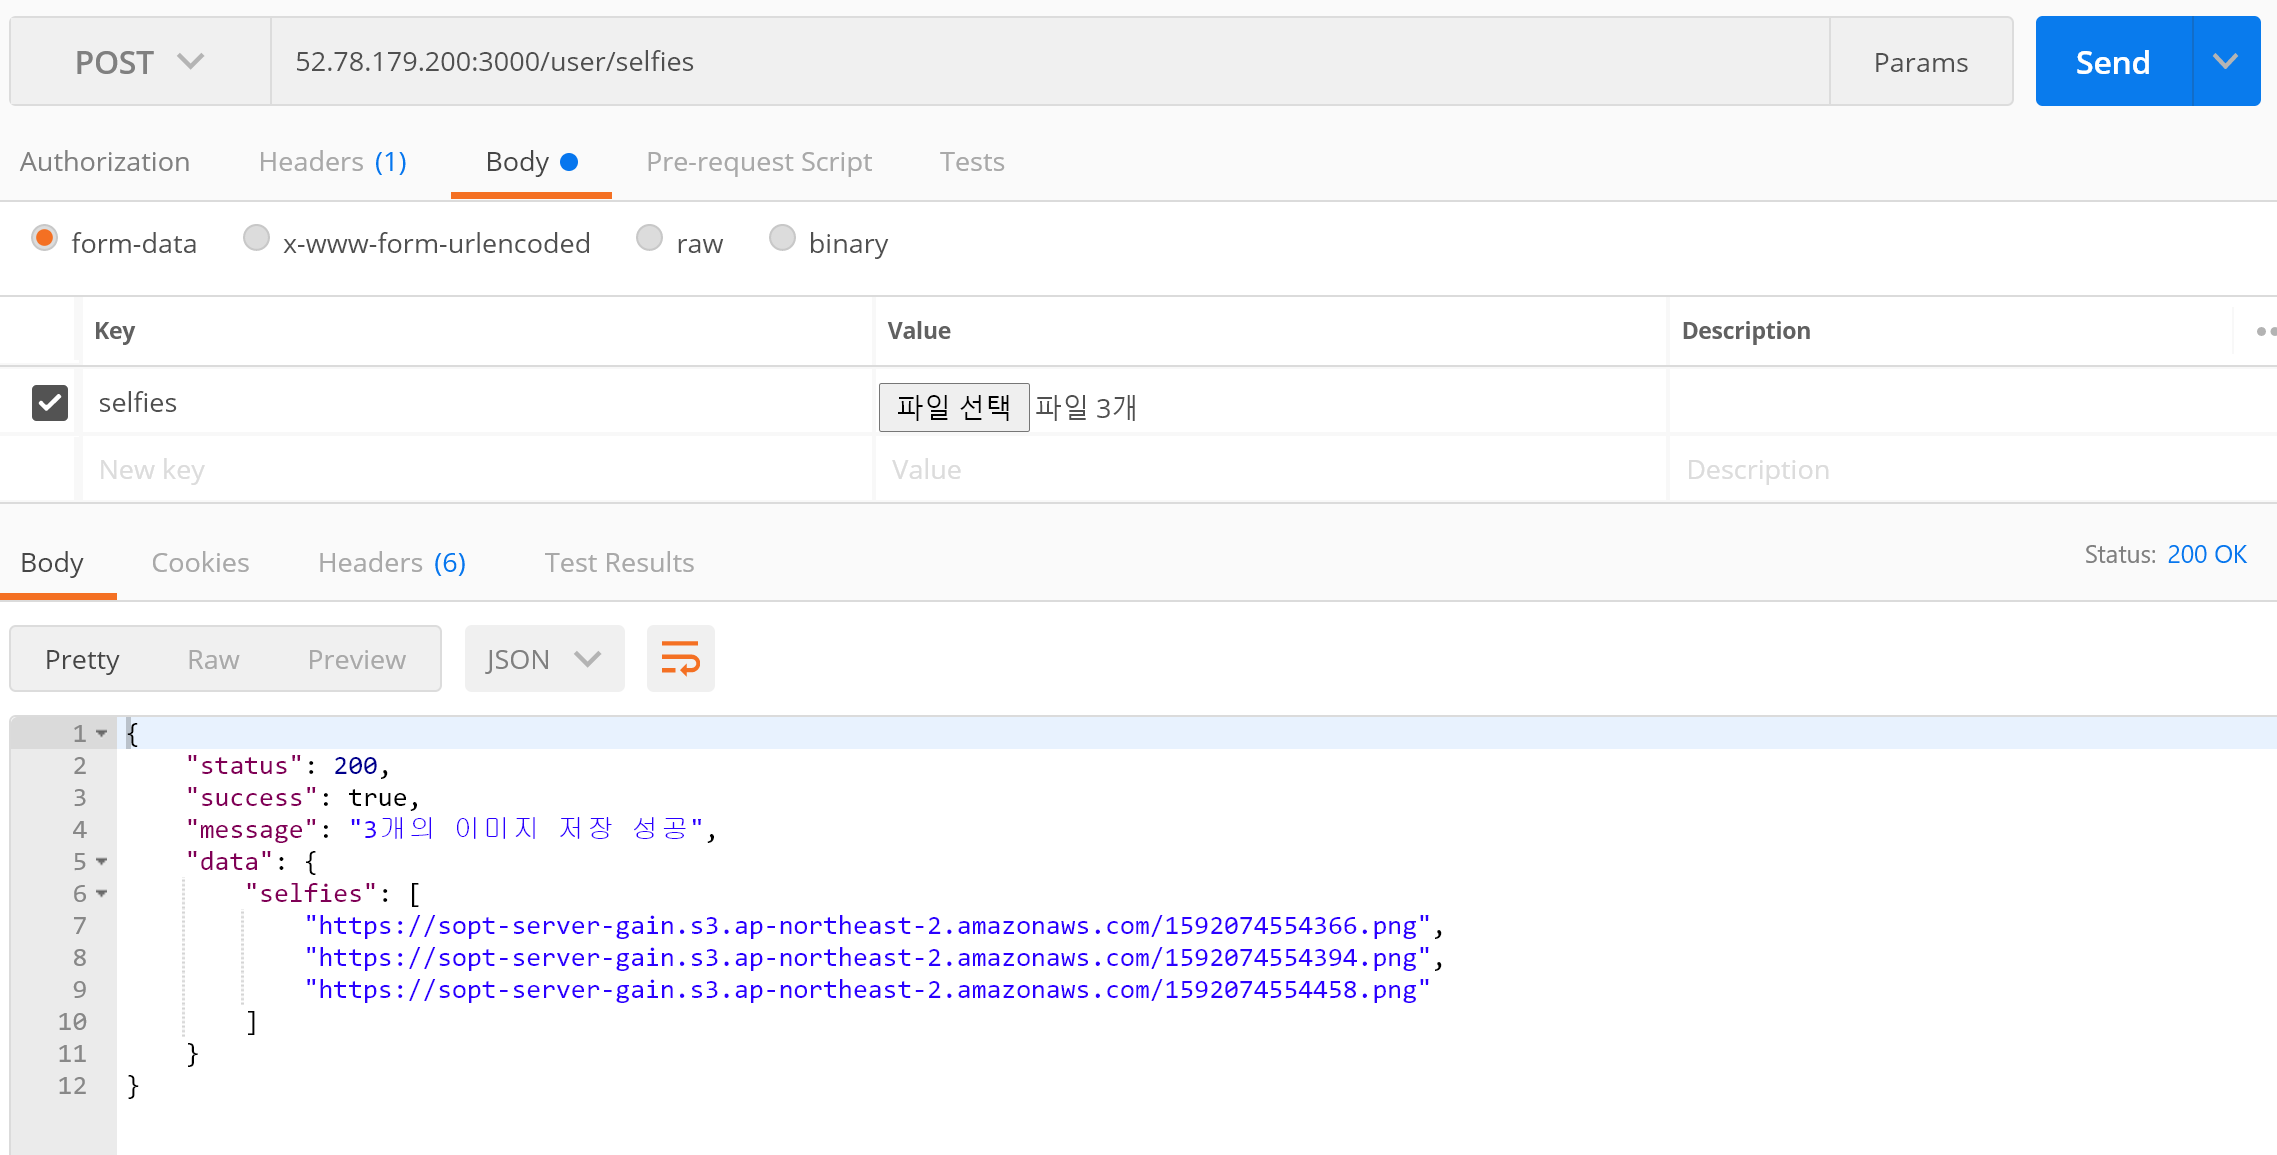
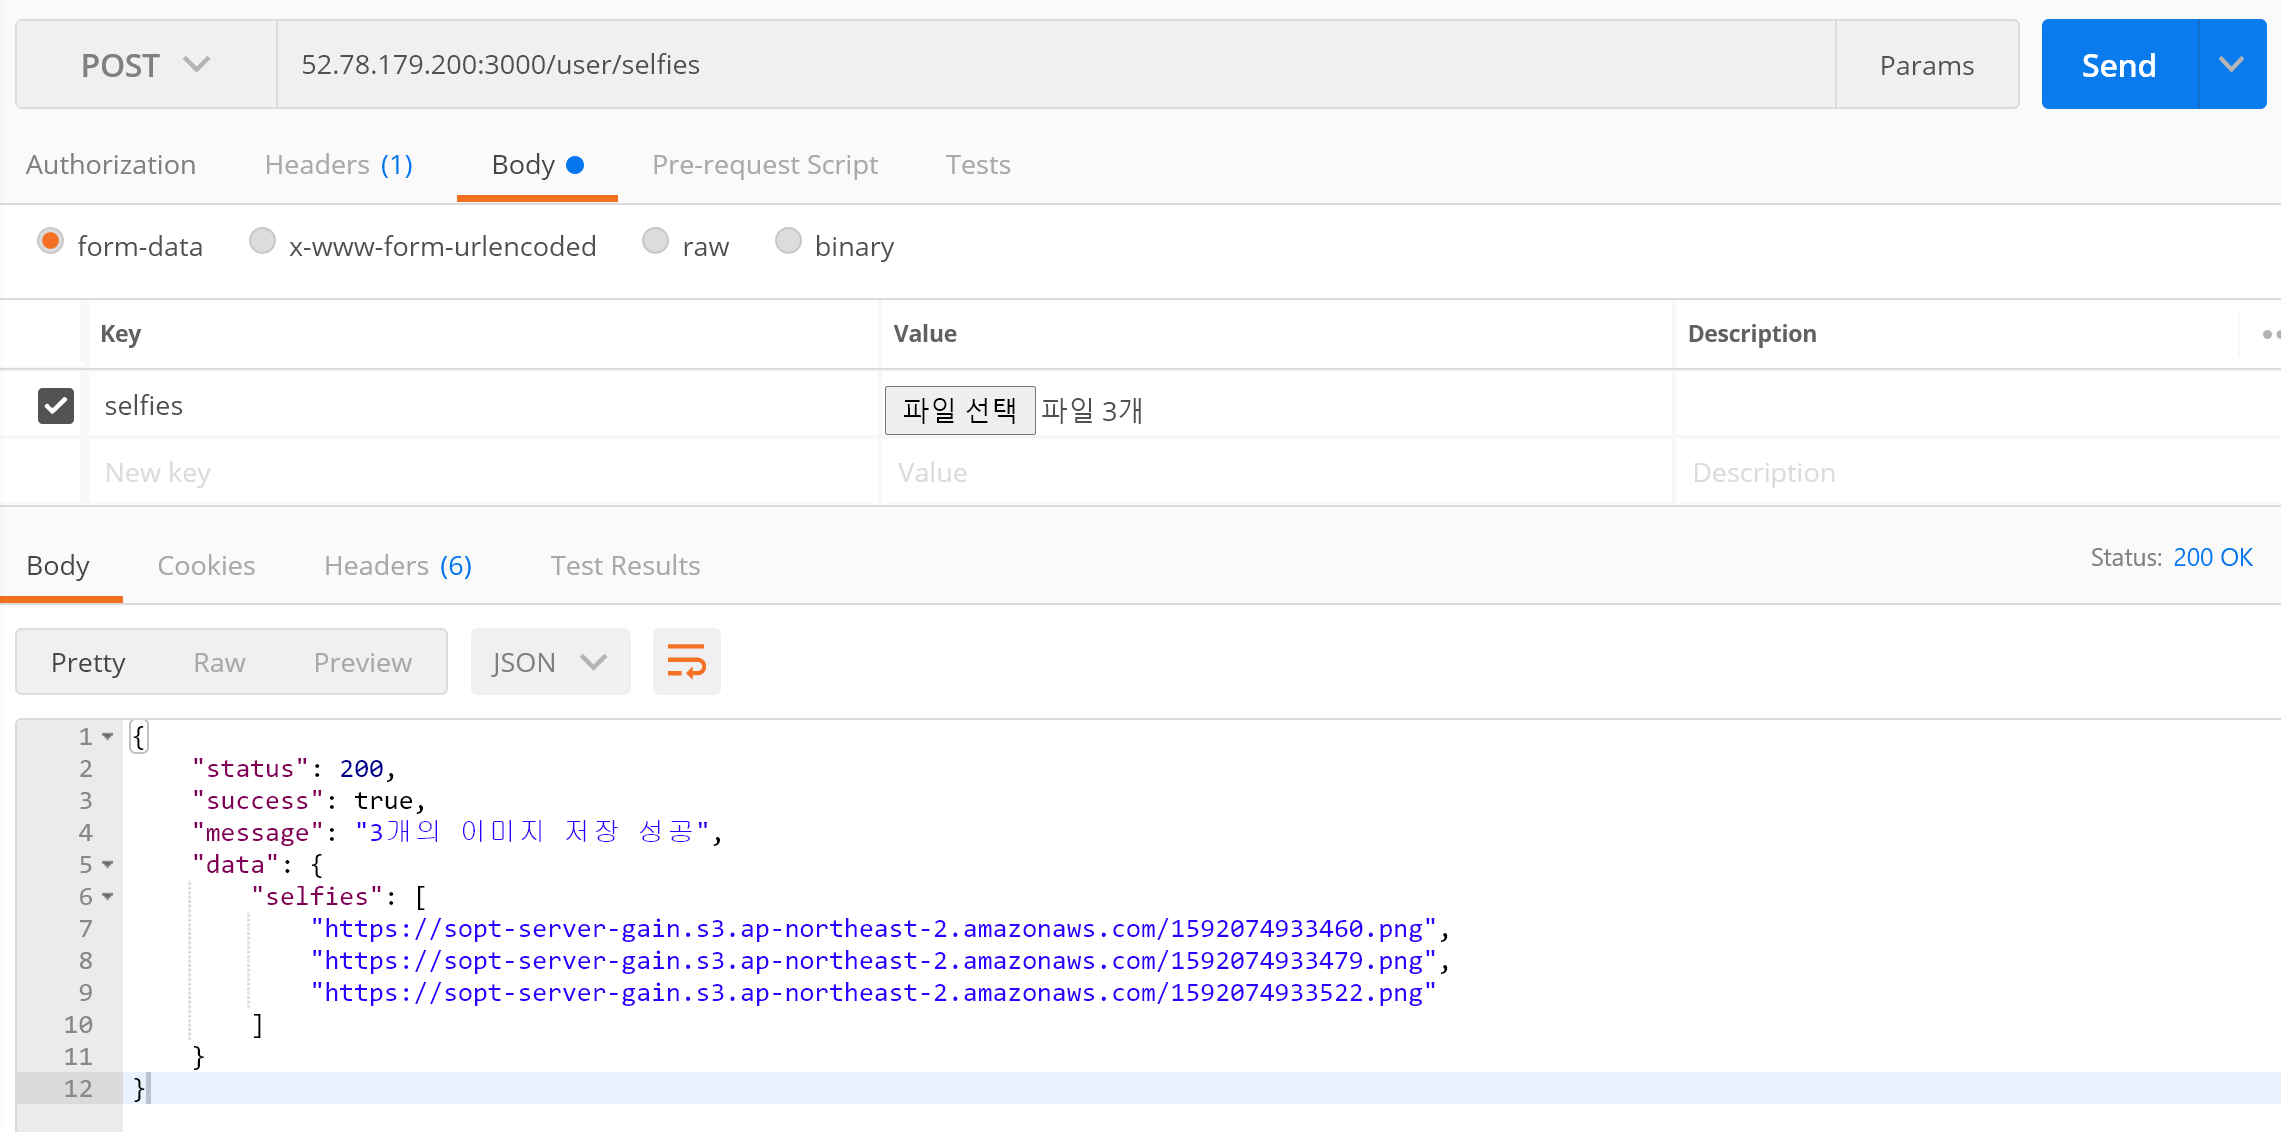
update README.md

diff --git a/hw7/practice/README.md b/hw7/practice/README.md
@@ -6,14 +6,28 @@
 
 ## API TEST ✨
 
-### 1. update multiple images
+### 1. 로그인해서 token 값 가져오기
 
-![get_restaurant](./public/images/get_restaurant.png)
+![post_signin](./public/images/post_signin.png)
 
-### 2. show all selfies
+#### token 값 헤더에 복사
 
-![get_ad](./public/images/get_ad.png)
+![token](./public/images/token.png)
+
+### 2. 이미지 여러 개 저장
+
+![post_selfies](./public/images/post_selfies.png)
+
+#### 한 번 더 ~ (값 변하는 것 확인 가능)
+
+![post_selfies2](./public/images/post_selfies2.png)
+
+### +) 저장된 전체 이미지 user별로 조회
+
+![get_selfies_list](./public/images/get_selfies_list.png)
 
 ### TERMINAL LOG ✨
 
-![terminal](./public/image/terminal.png)
+![terminal](./public/images/terminal.png)
+
+#### 어렵지만 재밌다,,,,,,, 진심이다.,,,,,,,,,,
